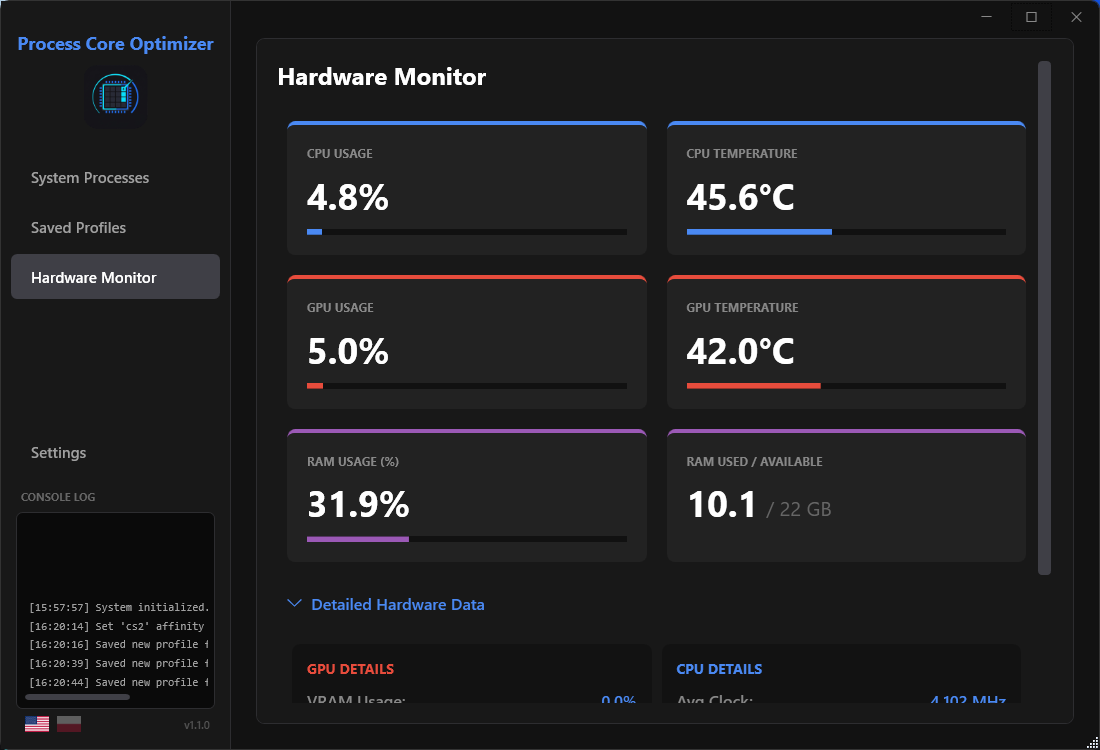
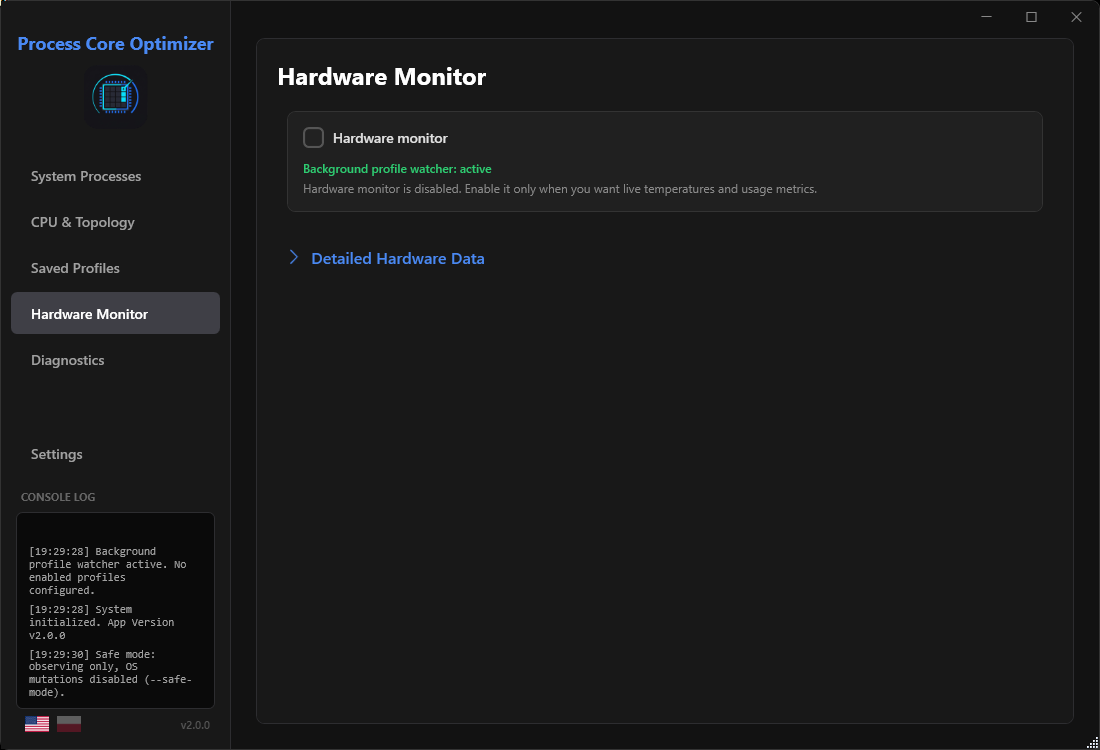
Phase 2 docs and evidence: real 2.0 screenshots, multi-group discipline tests, updated guides

diff --git a/ProcessCoreOptimizer.Tests/MultiGroupDisciplineTests.cs b/ProcessCoreOptimizer.Tests/MultiGroupDisciplineTests.cs
@@ -1,0 +1,47 @@
+using Microsoft.VisualStudio.TestTools.UnitTesting;
+using ProcessCoreOptimizer.WPF.Services;
+using System.Collections.Generic;
+using System.Linq;
+
+namespace ProcessCoreOptimizer.Tests;
+
+/// <summary>
+/// Synthetic multi-group discipline: without >64-LP hardware, only the pure
+/// mapping/validation rules are pinned. Real multi-group hardware: NOT RUN.
+/// </summary>
+[TestClass]
+public sealed class MultiGroupDisciplineTests
+{
+    private static Dictionary<int, uint> BigMap()
+    {
+        var map = new Dictionary<int, uint>();
+        for (int i = 0; i < 128; i++) map[i] = (uint)(1000 + i);
+        return map;
+    }
+
+    [TestMethod]
+    public void KnownMask_NeverExceeds64Bits()
+    {
+        long mask = ProcessService.KnownProcessorMask(BigMap());
+        Assert.AreEqual(-1L, mask, "Group-0 model exposes exactly the low 64 bits.");
+    }
+
+    [TestMethod]
+    public void HighBits_AreRejected_NotSilentlyDropped()
+    {
+        var map8 = Enumerable.Range(0, 8).ToDictionary(i => i, i => (uint)(100 + i));
+        Assert.AreEqual("ERR_MASK_OUT_OF_RANGE", ProcessService.ValidateCoreMask(1L << 10, map8));
+        // Bits >= 64 cannot even be expressed in a 64-bit mask (C# shift wraps),
+        // so the group-0 limit is enforced by the type system itself.
+        Assert.AreEqual("ERR_MASK_OUT_OF_RANGE", ProcessService.ValidateCoreMask(1L << 40, map8));
+        Assert.IsNull(ProcessService.ValidateCoreMask(1L << 63, BigMap()));
+    }
+
+    [TestMethod]
+    public void CpuSetConversion_MapsOnlyKnownBits()
+    {
+        var sparse = new Dictionary<int, uint> { [0] = 10, [63] = 63 };
+        uint[] ids = ProcessService.ConvertMaskToCpuSetIds((1L << 5) | (1L << 0) | (1L << 63), sparse);
+        CollectionAssert.AreEquivalent(new[] { 10u, 63u }, ids);
+    }
+}

diff --git a/ProcessCoreOptimizer.Tests/RestoreCpuSetsTests.cs b/ProcessCoreOptimizer.Tests/RestoreCpuSetsTests.cs
@@ -68,7 +68,7 @@ public sealed class RestoreCpuSetsTests
     [TestMethod]
     public void Restore_NoExplicitSetsBaseline_ClearsCurrentSets()
     {
-        var fake = new FakeProcessService();
+        var fake = new FakeProcessService { ClearCpuSetsBehavior = pid => true };
         var svc = new SessionRestoreService();
         var field = typeof(SessionRestoreService).GetField("_entries", System.Reflection.BindingFlags.NonPublic | System.Reflection.BindingFlags.Instance)!;
         ((System.Collections.IList)field.GetValue(svc)!).Add(new SessionRestoreEntry

diff --git a/docs/ARCHITECTURE.md b/docs/ARCHITECTURE.md
@@ -6,7 +6,9 @@ One owner per responsibility. Cached observations never authorize mutations.
 
 - `Views/` — thin UserControls (`ProcessesView`, `CpuView`, `ProfilesView`,
   `HardwareView`, `SettingsView`, `DiagnosticsView`) + `MainWindow` shell.
-  No business logic in code-behind except log auto-scroll.
+  No business logic in code-behind except log auto-scroll. Theme resources live
+  in `Application.Resources` (resolvable during any view load); `--safe-mode`
+  disables all OS mutations with a log line.
 - `Themes/` — `Colors.xaml` design tokens, `Controls.xaml` control styles.
 - `ViewModels/MainViewModel` — composition root: timers, commands, row sync,
   selection, settings apply. Delegates engine work to services.
@@ -21,7 +23,9 @@ One owner per responsibility. Cached observations never authorize mutations.
   - `ProfileService` — load/sanitize/migrate/import/export, path-aware identity.
   - `HardwareService` — topology + CPU Set map + report (group 0 limit).
   - `HardwareMonitorService` — lazy LibreHardwareMonitor metrics.
-  - `SessionRestoreService` — in-memory pre-apply baselines + verified restore.
+  - `SessionRestoreService` — in-memory pre-apply baselines (affinity + CPU Sets
+  state incl. no-explicit-sets + priority, first baseline wins) and verified
+  restore in affinity → CPU Sets → priority order with honest partial results.
   - `AppliedOperationHistory` — bounded diagnostics ring (never persisted).
   - `ProcessIdentityValidator` / `ProfileConflicts` / `ProfilePreviewService` /
     `CorePresets` — pure, unit-tested logic.
@@ -31,17 +35,14 @@ One owner per responsibility. Cached observations never authorize mutations.
 
 ## Identity model
 
-A mutation requires, re-acquired immediately before the OS call:
-
-- PID + process start time (via `GetProcessTimes` on a minimal handle),
-- process name (normalized, `.exe`-insensitive),
-- EXE path when the profile is path-bound (never falls back to same-name),
-- not a protected system process.
-
-`default` start time, mismatch, or unreadable identity → refusal
-(`SKIPPED_IDENTITY_MISMATCH` / `SKIPPED_PROTECTED`). Priority is written
-through the same verified handle (`SetPriorityClass`); affinity is set after
-the handle check plus a managed re-check.
+A mutation requires a valid `ProcessMutationTarget` — PID + process start time
+(via `GetProcessTimes` on a minimally-privileged handle that always includes
+query rights) + process name (normalized, `.exe`-insensitive) + EXE path when
+the profile is path-bound. There is no null/default bypass: `TryCreate` rejects
+incomplete identities and every mutating method re-checks `IsValid` first.
+Name and path are additionally re-verified on a managed `Process` object before
+each write, so a recycled PID or replaced executable yields refusal
+(`SKIPPED_IDENTITY_MISMATCH` / `SKIPPED_PROTECTED` / `ERR_IDENTITY_MISMATCH`).
 
 ## Operation outcomes
 
@@ -57,7 +58,9 @@ evidence = `SkippedNoPermission` (retry without elevation is pointless).
 Single pipeline (`ProfileWatcherService.RunOnceAsync`): snapshot profiles →
 targeted `GetProcessesByName` scan → per-instance apply → stale-cache cleanup
 → history + diagnostics. Overlapping runs serialize (second returns null);
-disposal cancels and forbids further OS writes. Timer ownership stays in the
+disposal cancels and forbids further OS writes. Post-restore instances suspend
+automatically (`SkippedSuspended`, expiring, in-memory) so the watcher cannot
+undo a manual restore. Timer ownership stays in the
 ViewModel; the service owns the mechanism.
 
 ## Profiles

diff --git a/README.pl.md b/README.pl.md
@@ -184,16 +184,26 @@ Starsze pliki obok EXE są migrowane jednokierunkowo przy pierwszym starcie.
     </tr>
     <tr>
       <td align="center">
-        <b>Monitor sprzętu</b><br>
-        <img src="ProcessCoreOptimizer/Screenshots/screen_hardware-monitor-1.png" width="100%" alt="Monitor sprzętu 1" />
+        <b>CPU i topologia</b><br>
+        <img src="ProcessCoreOptimizer/Screenshots/screen_cpu-topology.png" width="100%" alt="CPU i topologia" />
       </td>
       <td align="center">
-        <b>Szczegółowa telemetria</b><br>
-        <img src="ProcessCoreOptimizer/Screenshots/screen_hardware-monitor-2.png" width="100%" alt="Monitor sprzętu 2" />
+        <b>Monitor sprzętu</b><br>
+        <img src="ProcessCoreOptimizer/Screenshots/screen_hardware-monitor-1.png" width="100%" alt="Monitor sprzętu" />
+      </td>
+    </tr>
+    <tr>
+      <td align="center">
+        <b>Diagnostyka</b><br>
+        <img src="ProcessCoreOptimizer/Screenshots/screen_diagnostics.png" width="100%" alt="Diagnostyka" />
+      </td>
+      <td align="center">
+        <b>Ustawienia</b><br>
+        <img src="ProcessCoreOptimizer/Screenshots/screen_settings.png" width="100%" alt="Ustawienia" />
       </td>
     </tr>
   </table>
-  <p align="center"><i>Zrzuty pokazują UI 1.3.x. Układ 2.0 (CPU i topologia, Diagnostyka, presety, szczegóły) powstał w środowisku headless — aktualne screenshoty zostaną wykonane z sesji GUI i celowo nie są tu syntetyzowane.</i></p>
+  <p align="center"><i>Zrzuty: prawdziwe UI PCO 2.0 z Windows 11 (1920×1080, 100% DPI). Bez mockupów.</i></p>
 </details>
 
 ---
@@ -227,9 +237,10 @@ dotnet publish ProcessCoreOptimizer/ProcessCoreOptimizer.csproj -c Release -p:Pu
 - Solution: `ProcessCoreOptimizer.slnx` (główny). `ProcessCoreOptimizer/ProcessCoreOptimizer.sln` to legacy.
 - Źródło wersji: `version.txt`, propagowane przez `Directory.Build.props` do MSBuild, metadanych PE, UI i aktualizatora.
 - Target: `net10.0-windows`, `win-x64`, WPF + WinForms (ikona tray).
-- Testy: MSTest, 72 przypadki, bez modyfikowania prawdziwych procesów (fałszywy backend + read-only self-PID).
+- Testy: MSTest, 97 przypadków (fałszywy backend + read-only + prawdziwe Windows API na izolowanych własnych procesach testowych), bez dotykania procesów użytkownika/systemu.
 - CI: `.github/workflows/ci.yml` — restore, Release build, testy, `git diff --check`.
-- Status instalatora: historyczna tożsamość `Setup.exe` nie jest odtwarzalna z tego repo (patrz [docs/INSTALLER.md](docs/INSTALLER.md)). Bez zgody opiekuna nie publikujemy wydania.
+- GUI: zweryfikowane na Windows 11 przez UI Automation (6 zakładek, maximize/minimize/restore, tray-intercept close) — patrz `tools/Run-GuiVerification.ps1`, dowody w `.evidence/` (gitignored).
+- Instalator: `installer/ProcessCoreOptimizer.iss` (nowa tożsamość, patrz [docs/INSTALLER.md](docs/INSTALLER.md)); build przez `tools/Build-Installer.ps1`. Bez zgody opiekuna nie publikujemy wydania.
 
 ---
 

diff --git a/README.md b/README.md
@@ -185,16 +185,26 @@ Legacy files next to the EXE are migrated one-way on first launch.
     </tr>
     <tr>
       <td align="center">
-        <b>Hardware Monitor</b><br>
-        <img src="ProcessCoreOptimizer/Screenshots/screen_hardware-monitor-1.png" width="100%" alt="Hardware Monitor 1" />
+        <b>CPU &amp; Topology</b><br>
+        <img src="ProcessCoreOptimizer/Screenshots/screen_cpu-topology.png" width="100%" alt="CPU and Topology" />
       </td>
       <td align="center">
-        <b>Detailed Telemetry</b><br>
-        <img src="ProcessCoreOptimizer/Screenshots/screen_hardware-monitor-2.png" width="100%" alt="Hardware Monitor 2" />
+        <b>Hardware Monitor</b><br>
+        <img src="ProcessCoreOptimizer/Screenshots/screen_hardware-monitor-1.png" width="100%" alt="Hardware Monitor" />
+      </td>
+    </tr>
+    <tr>
+      <td align="center">
+        <b>Diagnostics</b><br>
+        <img src="ProcessCoreOptimizer/Screenshots/screen_diagnostics.png" width="100%" alt="Diagnostics" />
+      </td>
+      <td align="center">
+        <b>Settings</b><br>
+        <img src="ProcessCoreOptimizer/Screenshots/screen_settings.png" width="100%" alt="Settings" />
       </td>
     </tr>
   </table>
-  <p align="center"><i>Screenshots reflect the 1.3.x UI. The 2.0 layout (CPU &amp; Topology, Diagnostics, presets, details) was built in a headless environment — updated screenshots will be captured from a GUI session and are intentionally not synthesized here.</i></p>
+  <p align="center"><i>Screenshots: real PCO 2.0 UI captured on Windows 11 (1920×1080, 100% DPI). No mockups.</i></p>
 </details>
 
 ---
@@ -228,9 +238,10 @@ dotnet publish ProcessCoreOptimizer/ProcessCoreOptimizer.csproj -c Release -p:Pu
 - Solution: `ProcessCoreOptimizer.slnx` (primary). `ProcessCoreOptimizer/ProcessCoreOptimizer.sln` is legacy.
 - Version source of truth: `version.txt`, propagated via `Directory.Build.props` to MSBuild, PE metadata, UI and updater.
 - Target: `net10.0-windows`, `win-x64`, WPF + WinForms (tray icon).
-- Tests: MSTest, 72 cases, no real processes are mutated (fake backend + read-only self-PID checks).
+- Tests: MSTest, 97 cases (fake backend + read-only checks + real Windows API on isolated self-owned probe processes), no user/system processes touched.
 - CI: `.github/workflows/ci.yml` — restore, Release build, tests, `git diff --check`.
-- Installer status: the historical `Setup.exe` identity is not reproducible from this repo (see [docs/INSTALLER.md](docs/INSTALLER.md)). No release is published without maintainer approval.
+- GUI: verified on Windows 11 via UI Automation (all 6 tabs, maximize/minimize/restore, tray-intercept close) — see `tools/Run-GuiVerification.ps1`, evidence in `.evidence/` (gitignored).
+- Installer: `installer/ProcessCoreOptimizer.iss` (new identity, see [docs/INSTALLER.md](docs/INSTALLER.md)); build with `tools/Build-Installer.ps1`. No release is published without maintainer approval.
 
 ---
 

diff --git a/CHANGELOG.md b/CHANGELOG.md
@@ -12,6 +12,7 @@
 - Path-bound profiles never fall back to a same-name executable at a different path.
 - Protected system processes are refused on the mutation path (`SKIPPED_PROTECTED`), not only hidden in the UI.
 - RealTime remains gated behind `AllowRealtimePriority` + confirmation; `RealTime` normalizes to `High` without opt-in.
+- Phase 2 hardening: `ProcessMutationTarget` makes identity mandatory (no null/default bypass); CPU Sets handles carry query rights for the start-time gate; new `SkippedSuspended` status keeps post-restore instances out of the watcher's way until expiry.
 
 ### Profiles & watcher (P1)
 - Deterministic conflict detection (`ProfileConflicts`): path-bound wins, then newest, then Id; conflicts shown in UI instead of silently picking.
@@ -49,15 +50,17 @@
 - Removed dead code: PID-only overloads, unused `ChangePriority`, unused `GetPriorityString` (replaced by `TryGetPriority`).
 
 ### Tests & CI (P1/P2)
-- `ProcessCoreOptimizer.Tests` (MSTest, 72 cases): identity, PID reuse, TOCTOU refusal, path-bound, CPU Sets mapping, mask validation, statuses, partial-success retry, cache invalidation, watcher lifecycle, conflicts, import/export, preview, restore, updater gates, localization parity, persistence.
-- No test mutates real processes (fake backend + read-only self-PID checks).
+- `ProcessCoreOptimizer.Tests` (MSTest, 97 cases): identity, PID reuse, TOCTOU refusal, path-bound, CPU Sets mapping, mask validation, statuses, partial-success retry, cache invalidation, watcher lifecycle incl. post-restore suspension, conflicts, import/export, preview, full CPU Sets restore, updater gates, localization parity, persistence, real Windows API on isolated probes.
+- No user/system process is ever touched: fake backend, read-only self-PID checks, and real mutations only on self-owned `%TEMP%` probe copies (terminated + deleted).
 - Lightweight GitHub Actions CI: Release build + tests + `git diff --check`.
 - Solution `ProcessCoreOptimizer.slnx` includes the tests project.
 
 ### Docs
 - `README.md` / `README.pl.md` updated for 2.0 (features, tabs, presets, diagnostics, restore, updater, build, installer status).
 - New: `docs/ARCHITECTURE.md`, `docs/RELEASE_NOTES_2.0.0.md` (+`.pl.md`), `docs/INSTALLER.md`.
-- Screenshots: existing 1.3.x gallery kept and marked; 2.0 screenshots intentionally not synthesized (headless environment) — to be captured from a GUI session.
+- Screenshots: real PCO 2.0 UI captured on Windows 11 (1920×1080, 100% DPI) via UI Automation; no mockups. Evidence harness output stays in gitignored `.evidence/`.
+- GUI QA fixes from live screenshots: clean display version (no `+sha`), wider process-name column, wrapped console logs, two-column profile actions, App.xaml-level theme scope (fixed startup crash).
+- `--safe-mode` is now a real diagnostic mode (observes only, blocks manual/apply/restore mutations with a log line).
 
 ## v1.3.0 - Core Refactor & Performance Foundation
 

diff --git a/docs/RELEASE_NOTES_2.0.0.pl.md b/docs/RELEASE_NOTES_2.0.0.pl.md
@@ -41,13 +41,33 @@ oraz rejestracja autostartu tylko przy zmianie ustawień startu.
 ## Weryfikacja
 
 - Release build: 0 ostrzeżeń, 0 błędów.
-- Testy: 72 przypadki MSTest, wszystkie zielone (tożsamość, PID reuse, maski,
-  statusy, konflikty, import/eksport, watcher, restore, aktualizator, parzystość lokalizacji).
+- Testy: 97 przypadków MSTest, wszystkie zielone —
+  logika na fake backend, read-only self-PID, negatywne testy tożsamości P0,
+  macierz restore/suspension CPU Sets, bramki aktualizatora, parzystość lokalizacji
+  oraz prawdziwe Windows API na izolowanych własnych kopiach testowych w `%TEMP%`
+  (round-tripy affinity/CPU Sets/priorytetu z prawdziwymi kodami Win32, odmowa
+  dla zakończonego procesu, watcher + restore + suspension, path-bound mismatch).
+  Żaden proces użytkownika, usługi ani agenta nie jest dotykany.
+- GUI: 11/11 kontroli UI Automation na Windows 11 (sesja 1, 1920×1080, 100% DPI):
+  sześć zakładek prawdziwymi kliknięciami, maximize/minimize/restore,
+  tray-intercept close, linia safe-mode. Harness: `tools/Run-GuiVerification.ps1`
+  (backup i restore `%APPDATA%`, start z `--safe-mode`).
+- Defekty GUI wykryte na żywo i naprawione: crash zakresu theme przy starcie
+  (teraz poziom App), wersja z `+sha`, ucięte nazwy procesów, ucięte logi,
+  przepełnienie przycisków profili, prawa uchwytów CPU Sets (wykryły to prawdziwe testy).
+- Baseline wydajności (Win11, i5-10210U, 8 LP, 100% DPI): start 1,5–1,6 s;
+  idle 60 s ≈ 180 MB WS / 85 MB Private / 0,5% CPU / ~740 uchwytów / 21 wątków;
+  100 syntetycznych profili ≈ +5 MB WS, bez delty CPU; monitor HW ON ≈ +10 MB WS,
+  +80 uchwytów; zminimalizowany ≈ idle. Harness: `tools/Measure-Performance.ps1`,
+  `tools/Measure-Cpu.ps1`; surowe CSV w ignorowanym `.evidence/perf`.
 - CI: restore → Release build → testy → `git diff --check`, zielone.
-- Artefakt lokalny: samowystarczalny jednoplikowy `ProcessCoreOptimizer.exe`
-  2.0.0 (patrz `docs/INSTALLER.md` — SHA-256 i status instalatora).
-- Interaktywne screenshoty: NIE WYKONANO (środowisko headless);
-  galeria nadal pokazuje UI 1.3.x i jest tak oznaczona.
+- Artefakty lokalne: samowystarczalny jednoplikowy `ProcessCoreOptimizer.exe` 2.0.0
+  oraz `installer/Output/ProcessCoreOptimizer_Setup_2.0.0.exe` (50 784 844 bajtów,
+  SHA-256 `11DE86C0…D6795D9F1`, PE 2.0.0) — patrz `docs/INSTALLER.md`.
+- Interaktywne screenshoty: prawdziwe UI 2.0 (6 ekranów) opublikowane; bez mockupów.
+- Instalacja/upgrade/uninstall na VM: NIE WYKONANO (brak izolowanej VM; instalacja
+  na maszynie deweloperskiej celowo uniknięta). Sprzęt multi-group: NIE WYKONANO
+  (maszyna 8-LP); przetestowano syntetyczną dyscyplinę mapowania.
 
 ## Znane ograniczenia
 

diff --git a/docs/RELEASE_NOTES_2.0.0.md b/docs/RELEASE_NOTES_2.0.0.md
@@ -41,13 +41,33 @@ and startup registration applied only when startup settings change.
 ## Verification
 
 - Release build: 0 warnings, 0 errors.
-- Tests: 72 MSTest cases, all passing (identity, PID reuse, masks, statuses,
-  conflicts, import/export, watcher, restore, updater, localization parity).
+- Tests: 97 MSTest cases, all passing —
+  fake-backend logic, read-only self-PID checks, negative P0 identity tests,
+  CPU Sets restore/suspension matrix, updater gates, localization parity, and
+  real Windows API tests on isolated self-owned `%TEMP%` probe copies
+  (affinity/CPU Sets/priority round-trips with real Win32 codes, exited-process
+  refusal, watcher apply + restore + suspension, path-bound mismatch).
+  No user, service or agent process is ever touched.
+- GUI: 11/11 UI Automation checks on Windows 11 (session 1, 1920×1080, 100% DPI):
+  all six tabs via real clicks, maximize/minimize/restore, tray-intercept close,
+  safe-mode log line. Harness: `tools/Run-GuiVerification.ps1` (backs up and
+  restores `%APPDATA%`, launches with `--safe-mode`).
+- GUI defects found live and fixed: theme scope crash at startup (now
+  App-level), version showing `+sha`, truncated process names, clipped log
+  lines, profile-button overflow, CPU Sets handle rights (real tests caught it).
+- Performance baseline (Win11, i5-10210U, 8 LP, 100% DPI): startup 1.5–1.6 s;
+  idle 60 s ≈ 180 MB WS / 85 MB Private / 0.5% CPU / ~740 handles / 21 threads;
+  100 synthetic profiles ≈ +5 MB WS, no CPU delta; HW monitor ON ≈ +10 MB WS,
+  +80 handles; minimized ≈ idle. Harness: `tools/Measure-Performance.ps1`,
+  `tools/Measure-Cpu.ps1`; raw CSV in gitignored `.evidence/perf`.
 - CI: restore → Release build → tests → `git diff --check`, green.
-- Local artifact: self-contained single-file `ProcessCoreOptimizer.exe`
-  2.0.0 (see `docs/INSTALLER.md` for SHA-256 and installer status).
-- Interactive screenshots: NOT CAPTURED (headless build environment);
-  gallery still shows 1.3.x UI and is marked accordingly.
+- Local artifacts: self-contained single-file `ProcessCoreOptimizer.exe` 2.0.0
+  and `installer/Output/ProcessCoreOptimizer_Setup_2.0.0.exe` (50,784,844 bytes,
+  SHA-256 `11DE86C0…D6795D9F1`, PE 2.0.0) — see `docs/INSTALLER.md`.
+- Interactive screenshots: real 2.0 UI (6 screens) published; no mockups.
+- Install/upgrade/uninstall on a VM: NOT RUN (no isolated VM; dev-machine
+  install deliberately avoided). Multi-group hardware: NOT RUN (8-LP machine);
+  synthetic mapping discipline tested instead.
 
 ## Known limitations
 
